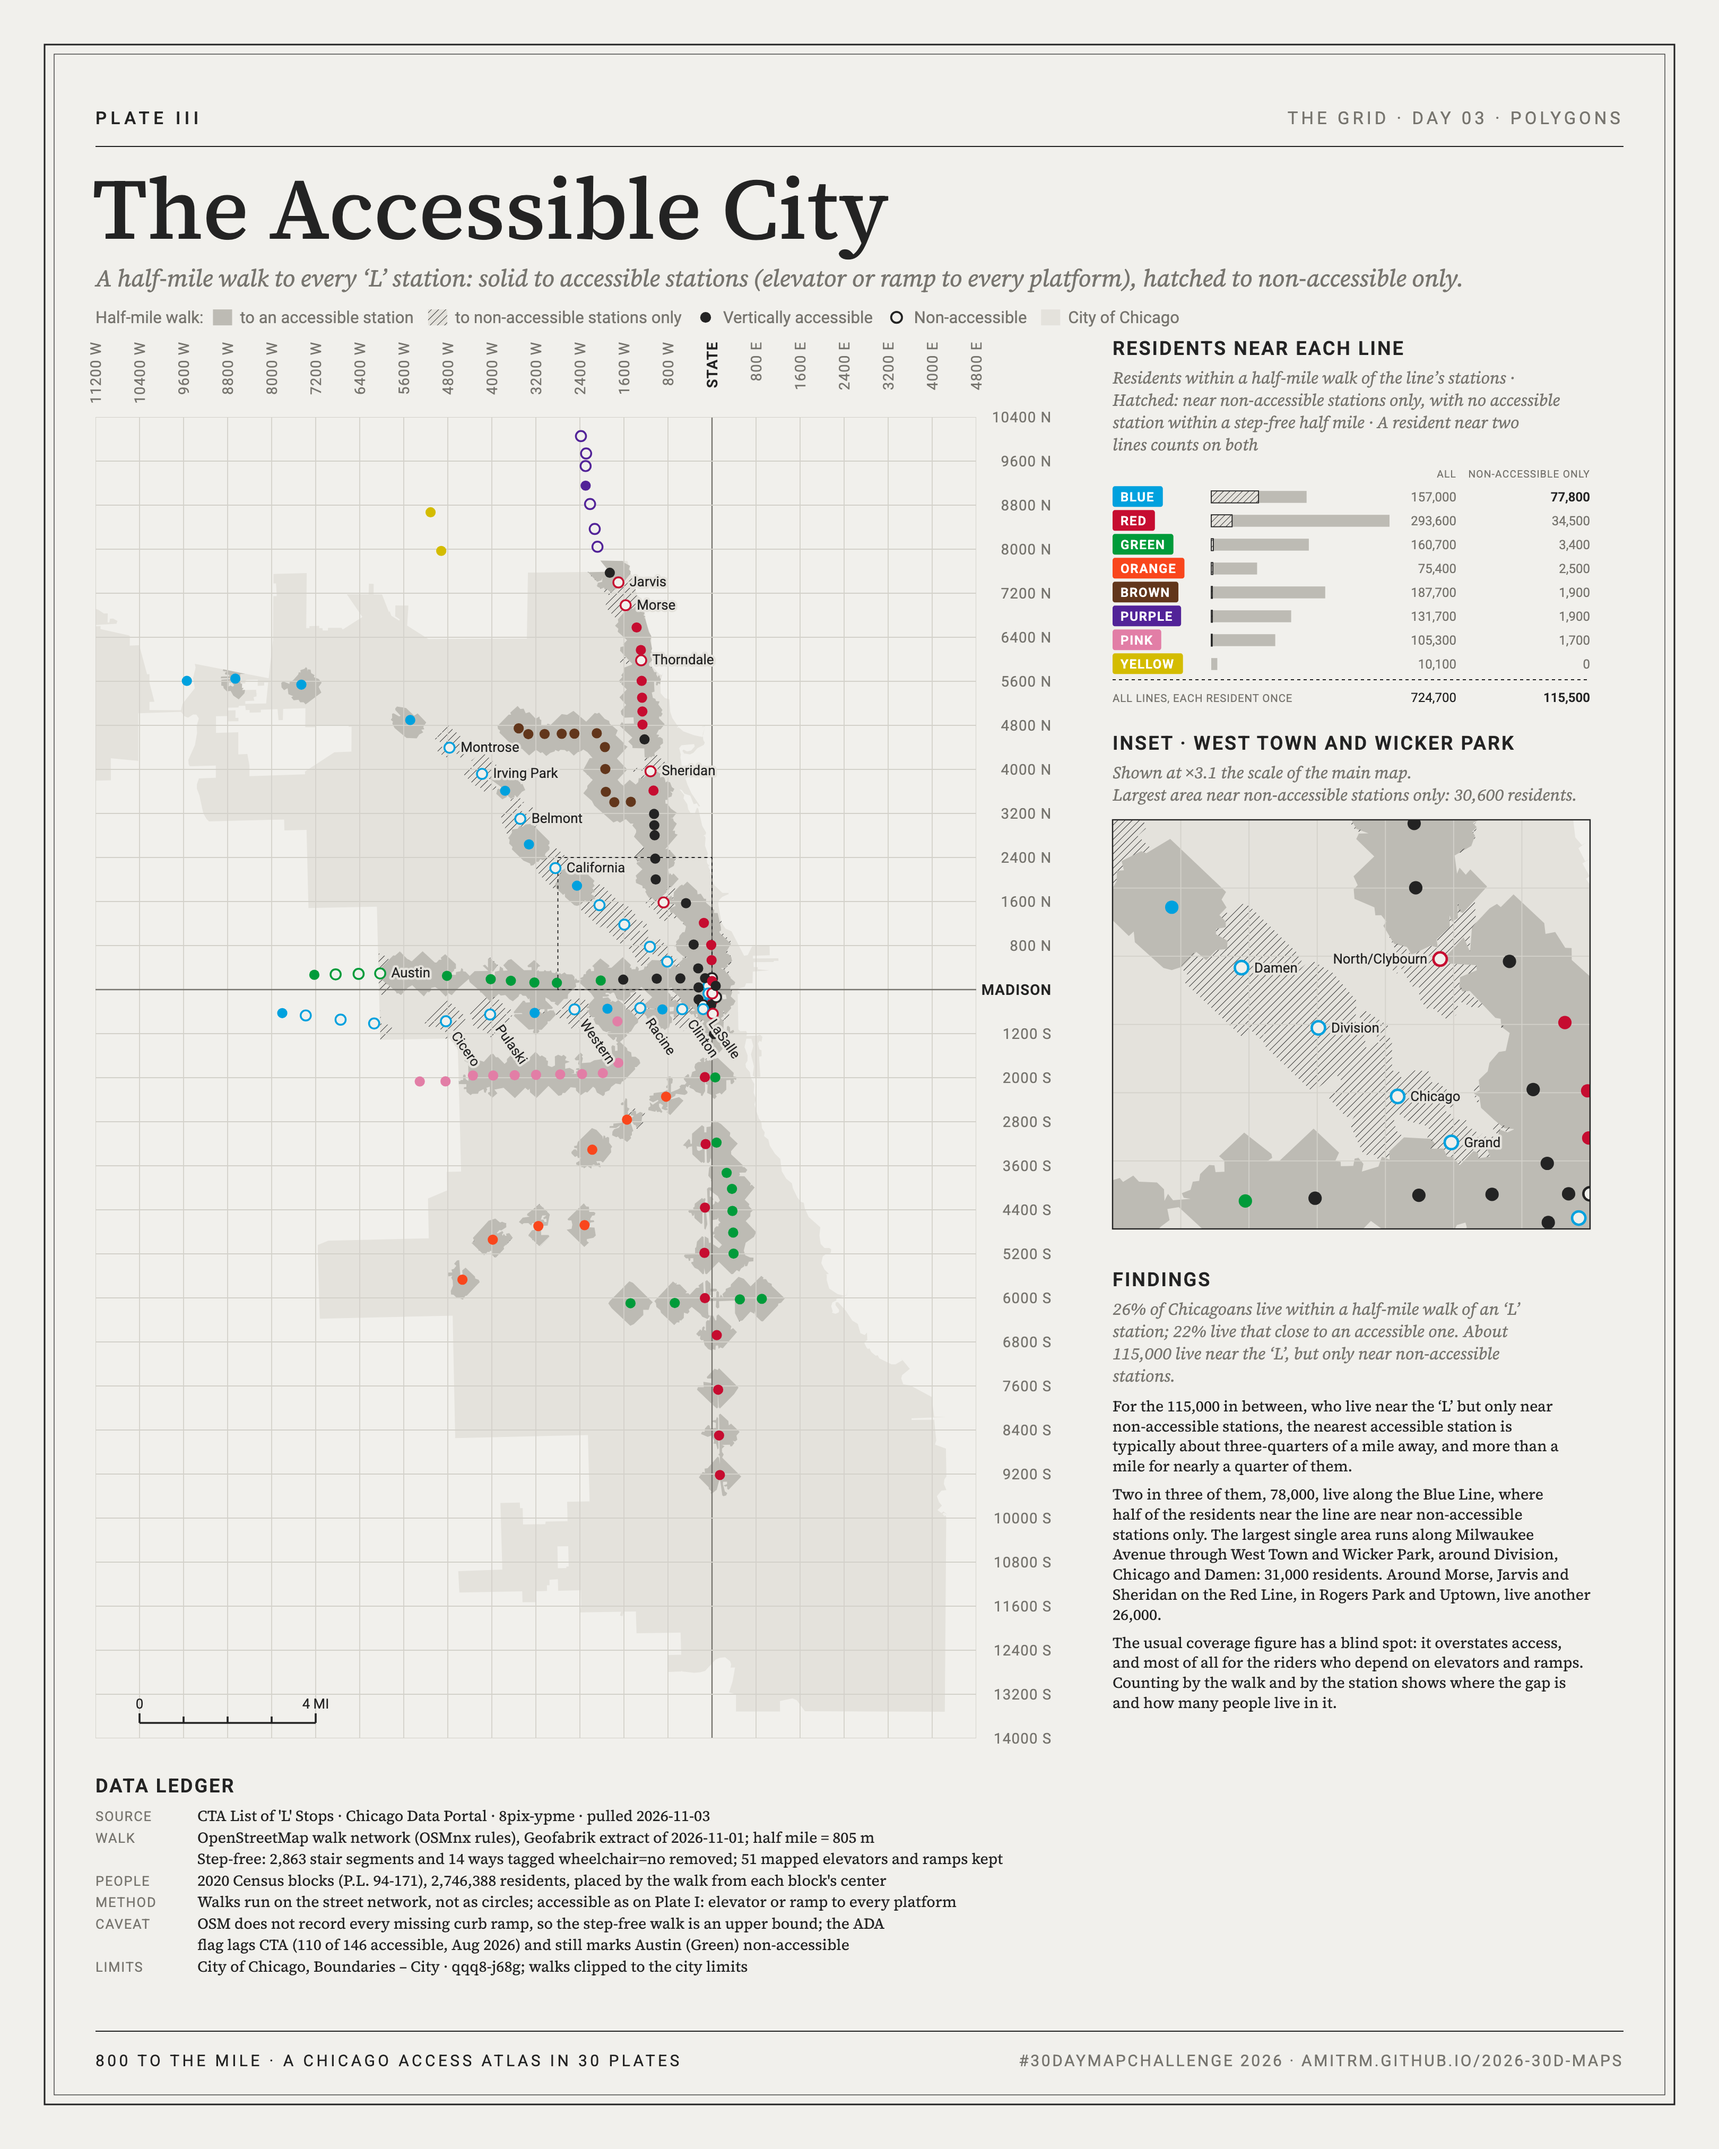
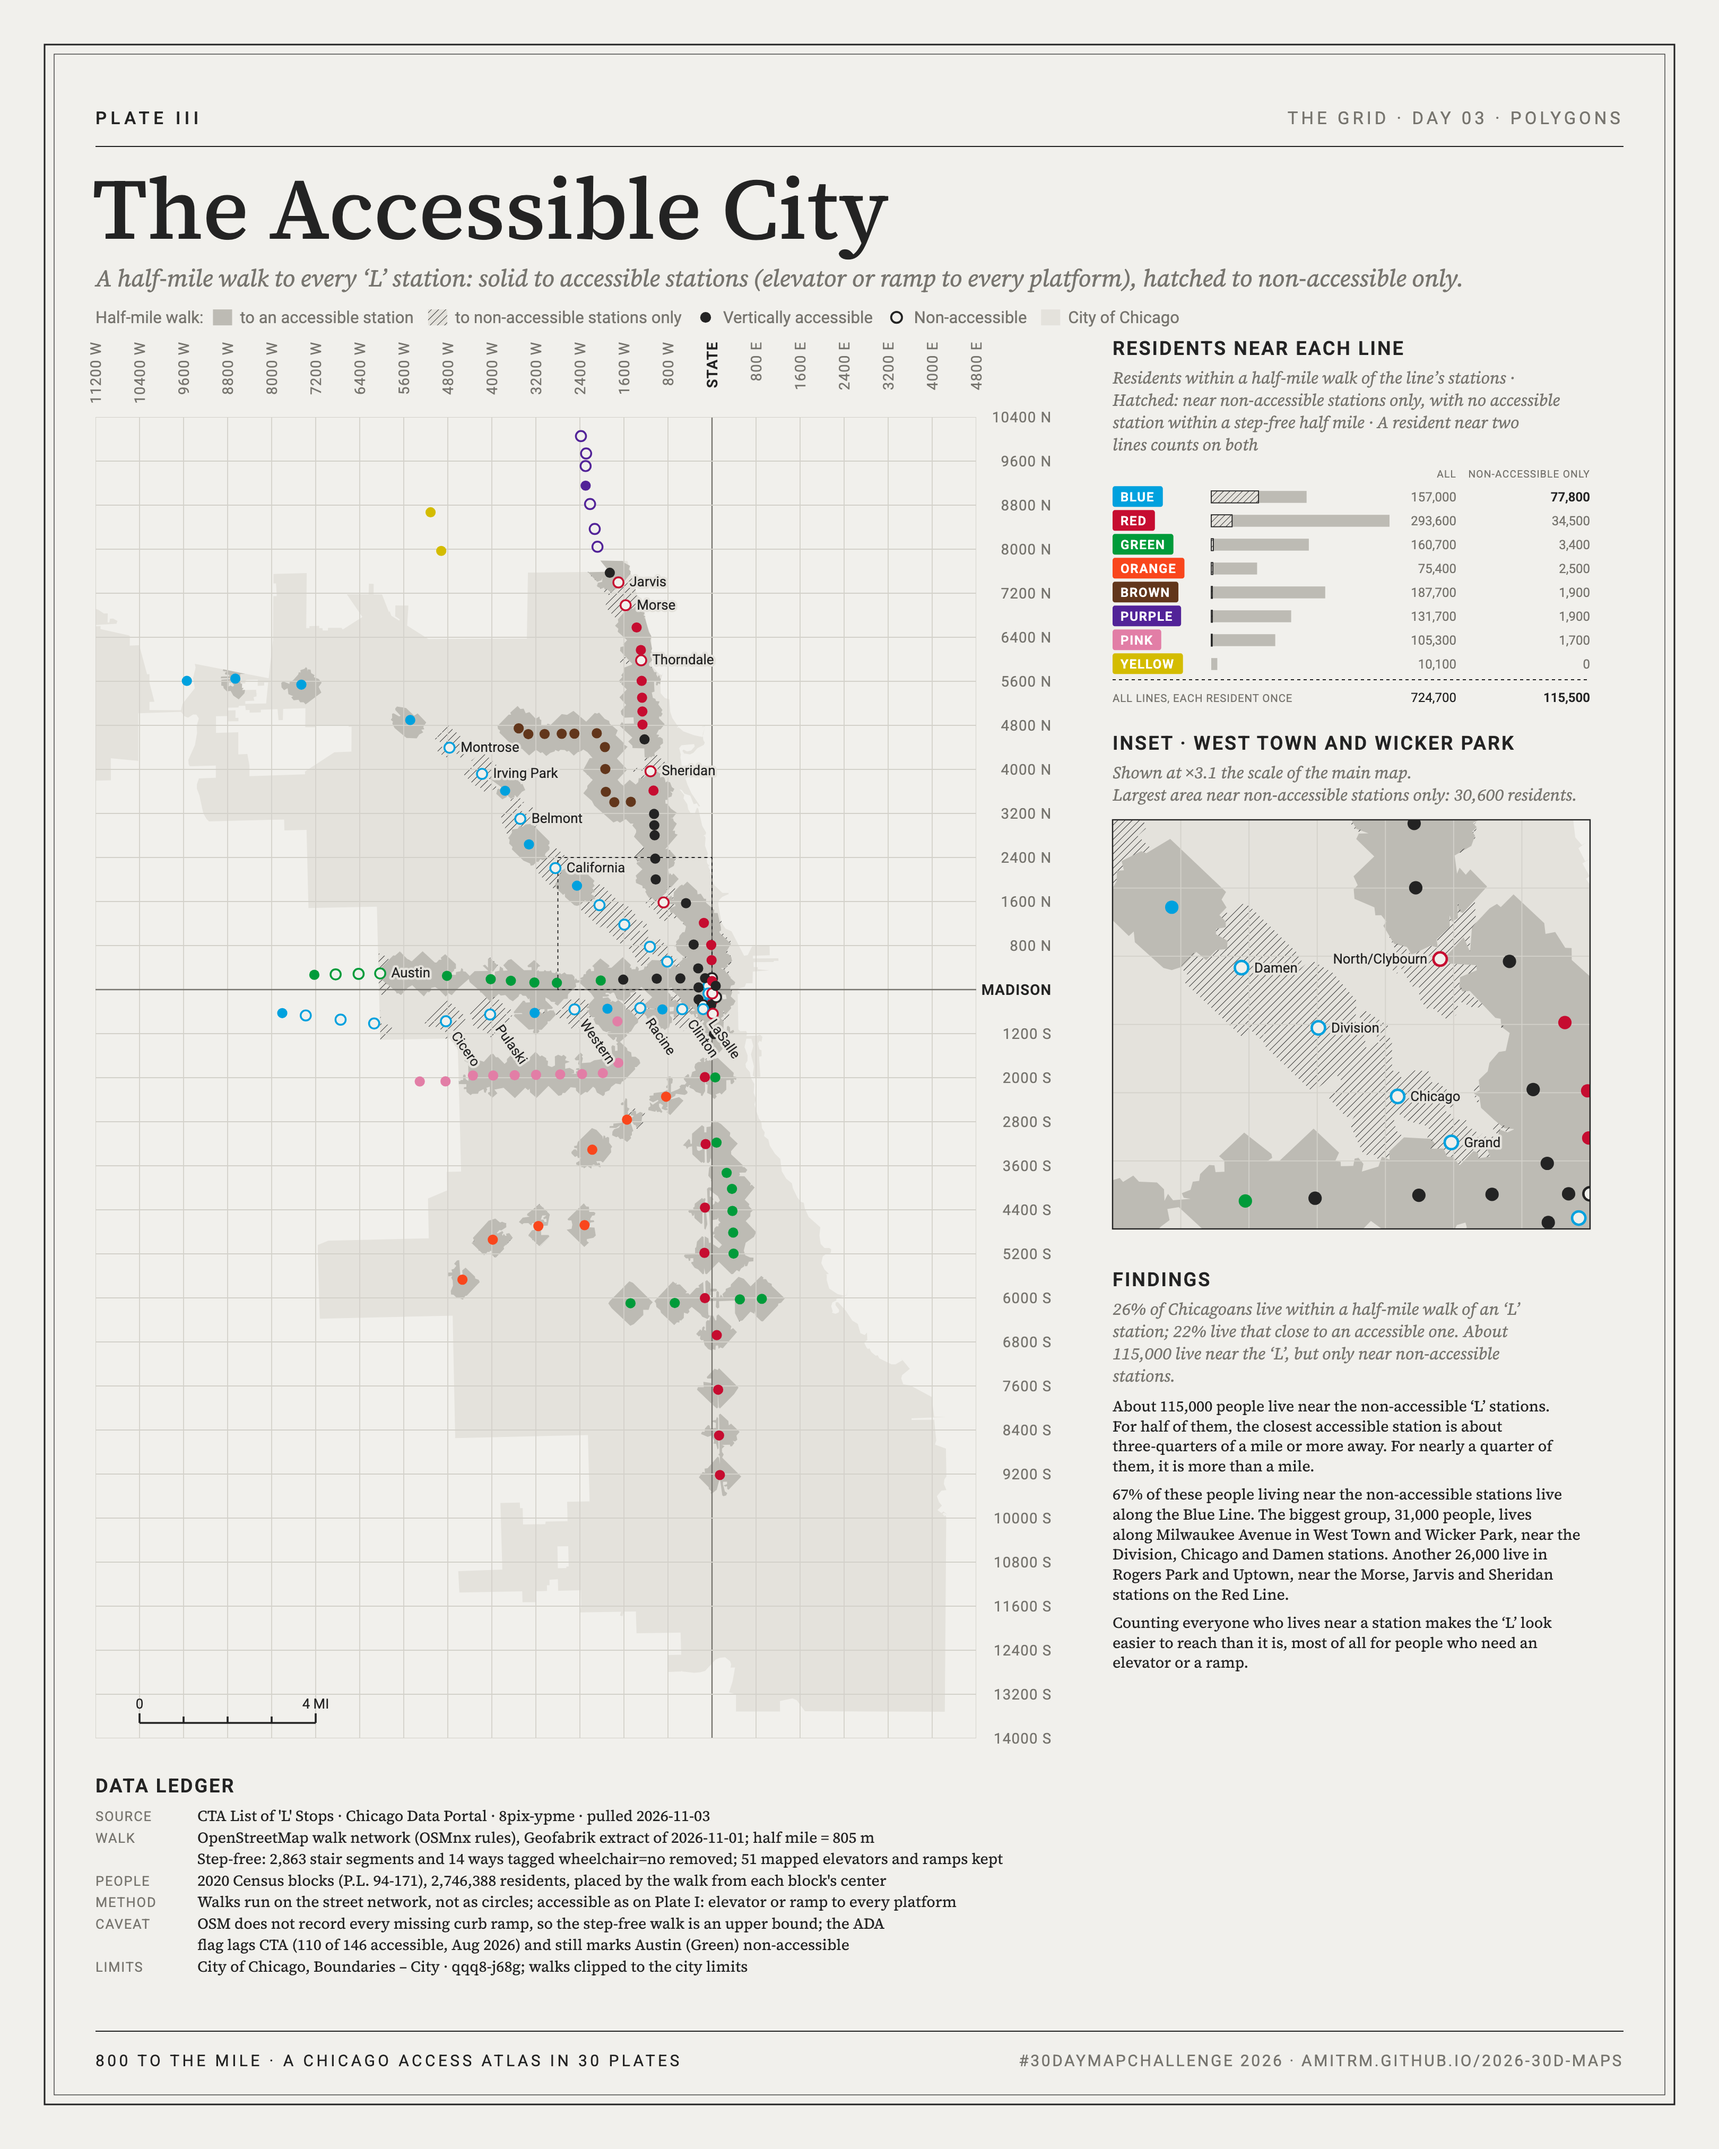
Day 03: plain-language findings

Changed region(s): [[0.6546, 0.6533, 0.904, 0.8089]]

diff --git a/src/plates/index.js b/src/plates/index.js
@@ -117,9 +117,9 @@ const d3Story = {
     'The map is drawn in miles from State & Madison, one square per mile, with no basemap. Solid tone is a step-free half-mile walk to an accessible station; hatching is a half-mile walk that reaches non-accessible stations only. Hover a station or its walkshed for the residents it serves, or a line in the chart to outline its stations’ walksheds.',
   ],
   findings: [
-    `For the ${thousands(d3.nearNonAccessible)} in between, who live near the ‘L’ but only near non-accessible stations, the nearest accessible station is typically ${walkMi(d3.nonAccessibleMedianWalkMi)} away, and more than a mile for ${share(d3.nonAccessibleBeyondMileShare)} of them.`,
-    `${share(d3Blue.nearNonAccessible / d3.nearNonAccessible).replace(/^./, (c) => c.toUpperCase())} of them, ${thousands(d3Blue.nearNonAccessible)}, live along the Blue Line, where ${share(d3Blue.nearNonAccessible / d3Blue.near)} of the residents near the line are near non-accessible stations only. The largest single area runs along Milwaukee Avenue through West Town and Wicker Park, around Division, Chicago and Damen: ${thousands(day03Data.inset.residents)} residents. Around Morse, Jarvis and Sheridan on the Red Line, in Rogers Park and Uptown, live another ${thousands(d3RedNorth)}.`,
-    'The usual coverage figure has a blind spot: it overstates access, and most of all for the riders who depend on elevators and ramps. Counting by the walk and by the station shows where the gap is and how many people live in it.',
+    `About ${thousands(d3.nearNonAccessible)} people live near the non-accessible ‘L’ stations. For half of them, the closest accessible station is ${walkMi(d3.nonAccessibleMedianWalkMi)} or more away. For ${share(d3.nonAccessibleBeyondMileShare)} of them, it is more than a mile.`,
+    `${pct(d3Blue.nearNonAccessible / d3.nearNonAccessible)} of these people living near the non-accessible stations live along the Blue Line. The biggest group, ${thousands(day03Data.inset.residents)} people, lives along Milwaukee Avenue in West Town and Wicker Park, near the Division, Chicago and Damen stations. Another ${thousands(d3RedNorth)} live in Rogers Park and Uptown, near the Morse, Jarvis and Sheridan stations on the Red Line.`,
+    'Counting everyone who lives near a station makes the ‘L’ look easier to reach than it is, most of all for people who need an elevator or a ramp.',
   ],
   gap: [
     `The American Community Survey counts about ${thousands(d3.ambulatory)} Chicagoans with serious difficulty walking or climbing stairs. About ${thousands(d3.ambulatoryNear)} live within a half-mile walk of the ‘L’, and about ${hundreds(d3.ambulatoryNonAccessible)} of them near non-accessible stations only, ${hundreds(d3.ambulatoryNonAccessibleOver65)} of those aged 65 or older. These are estimates: tract counts spread over blocks by population.`,
